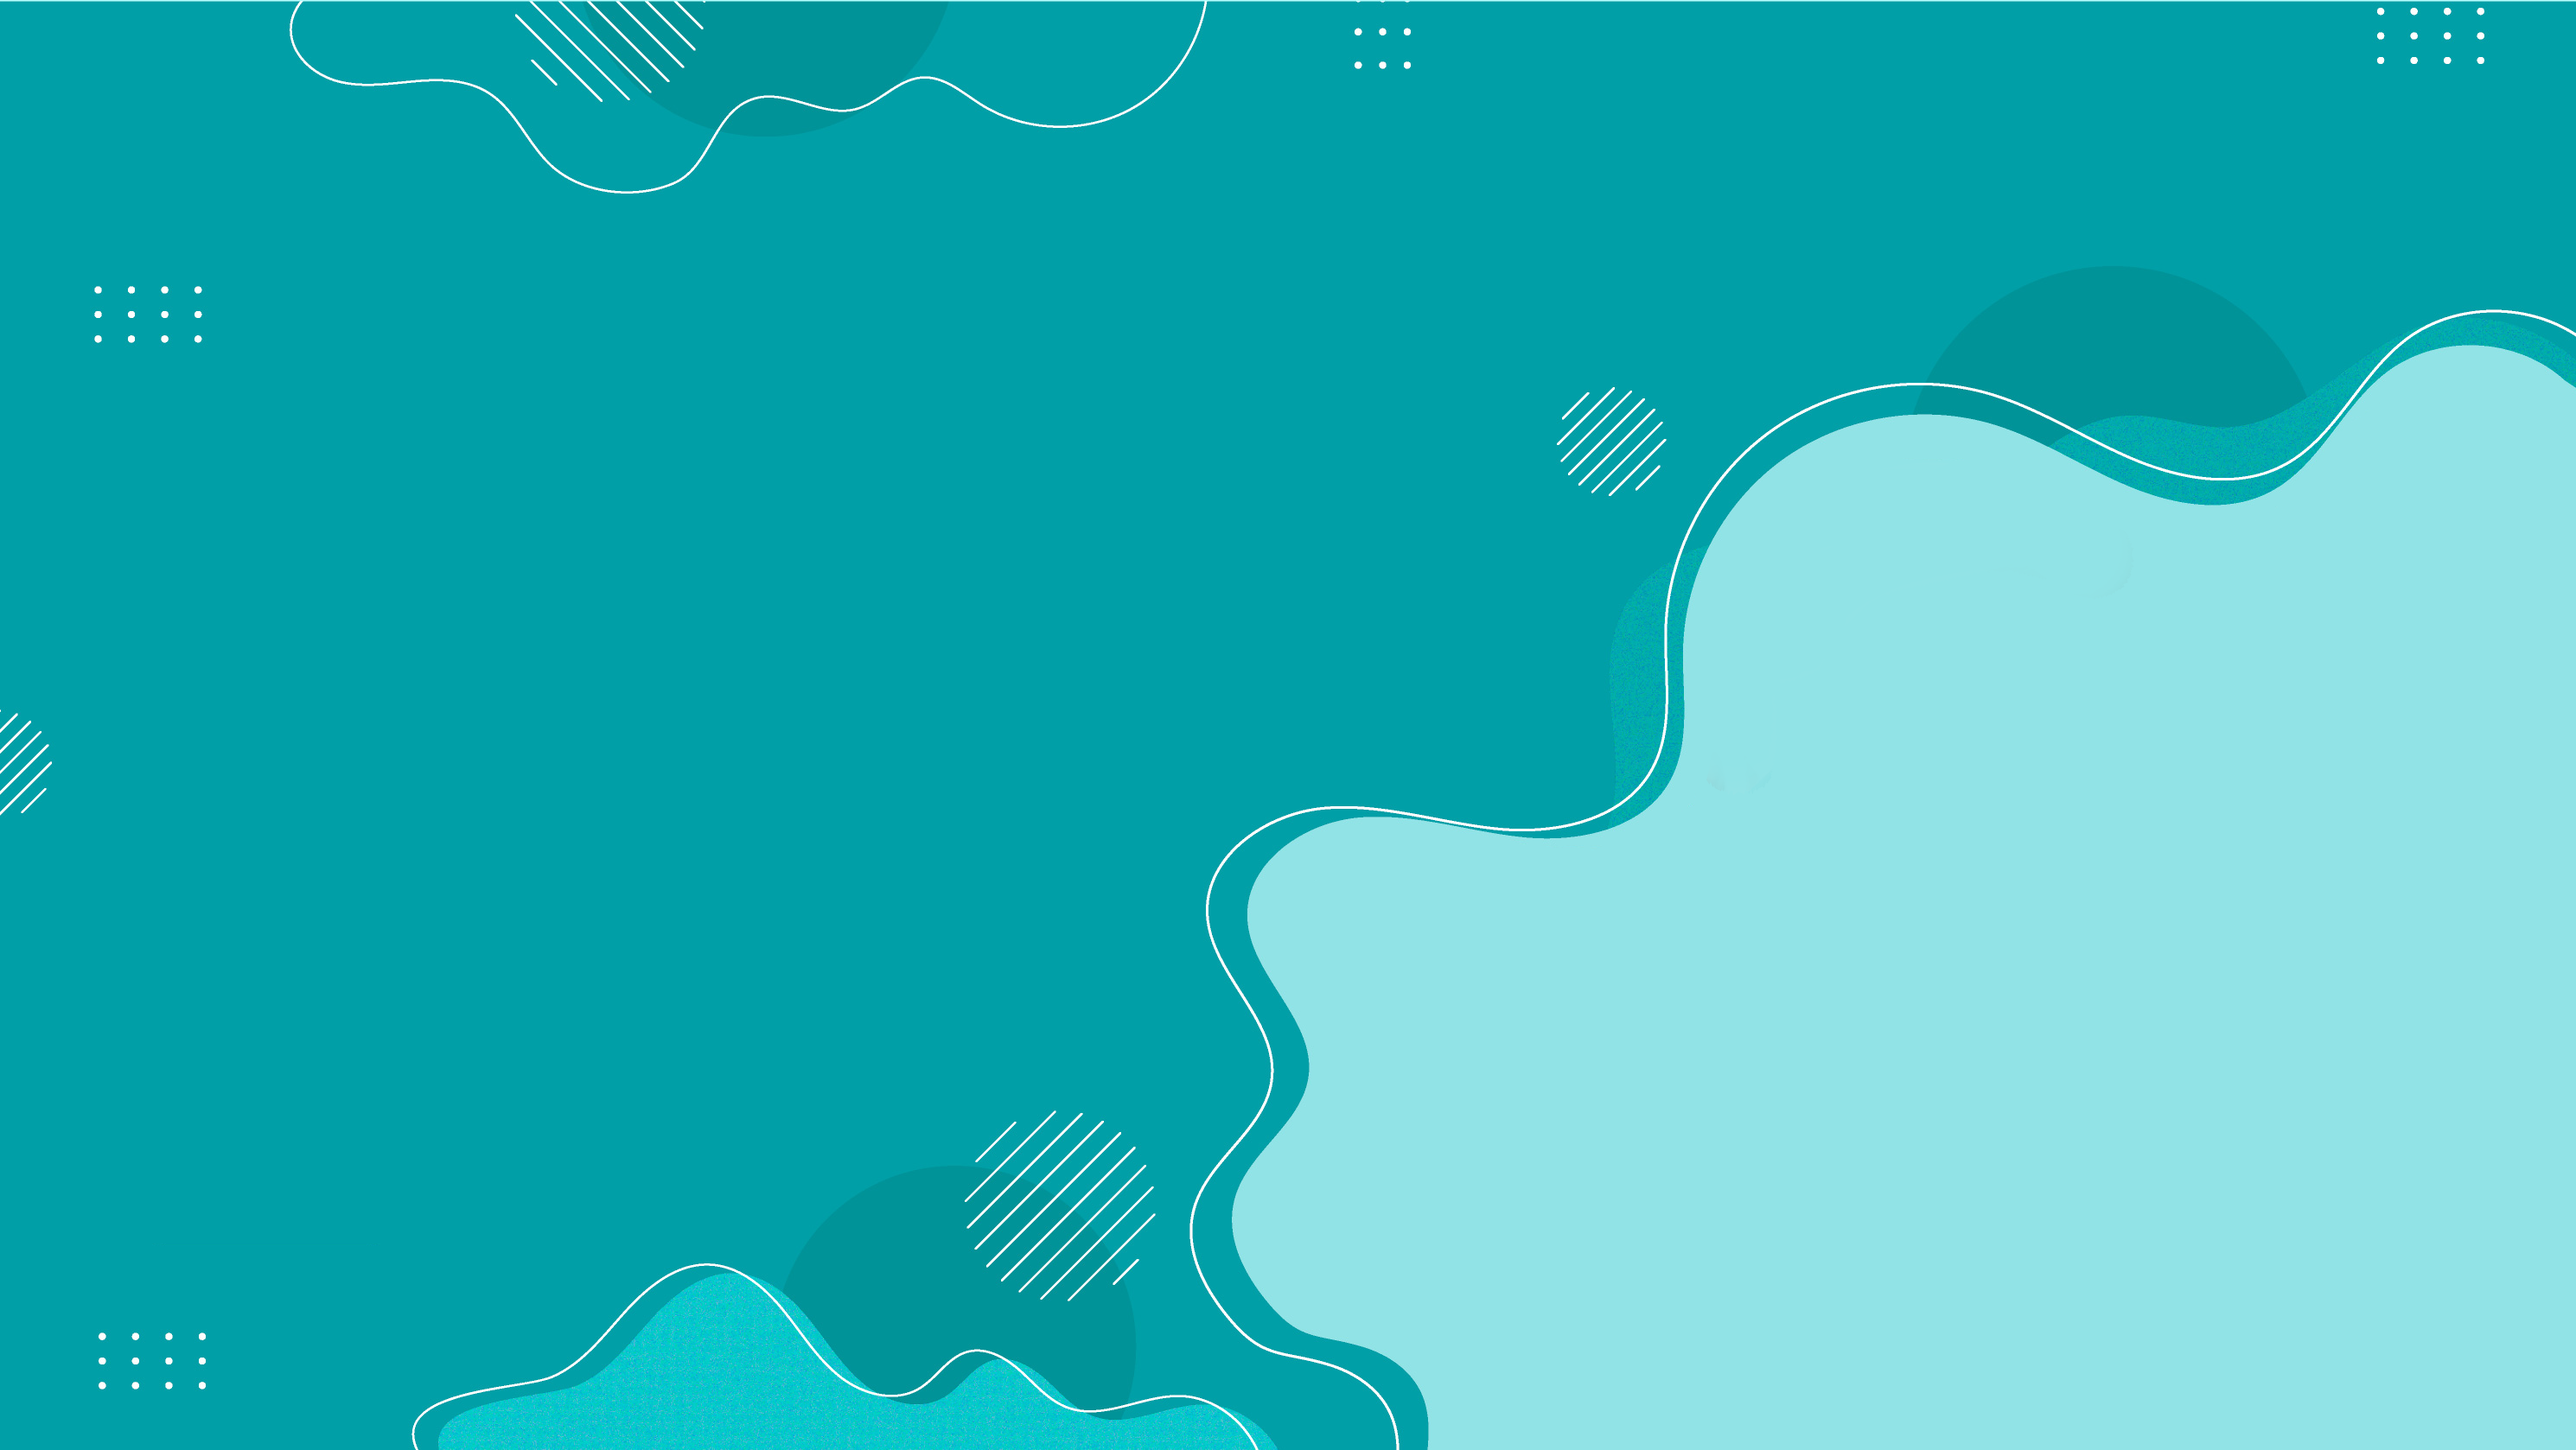
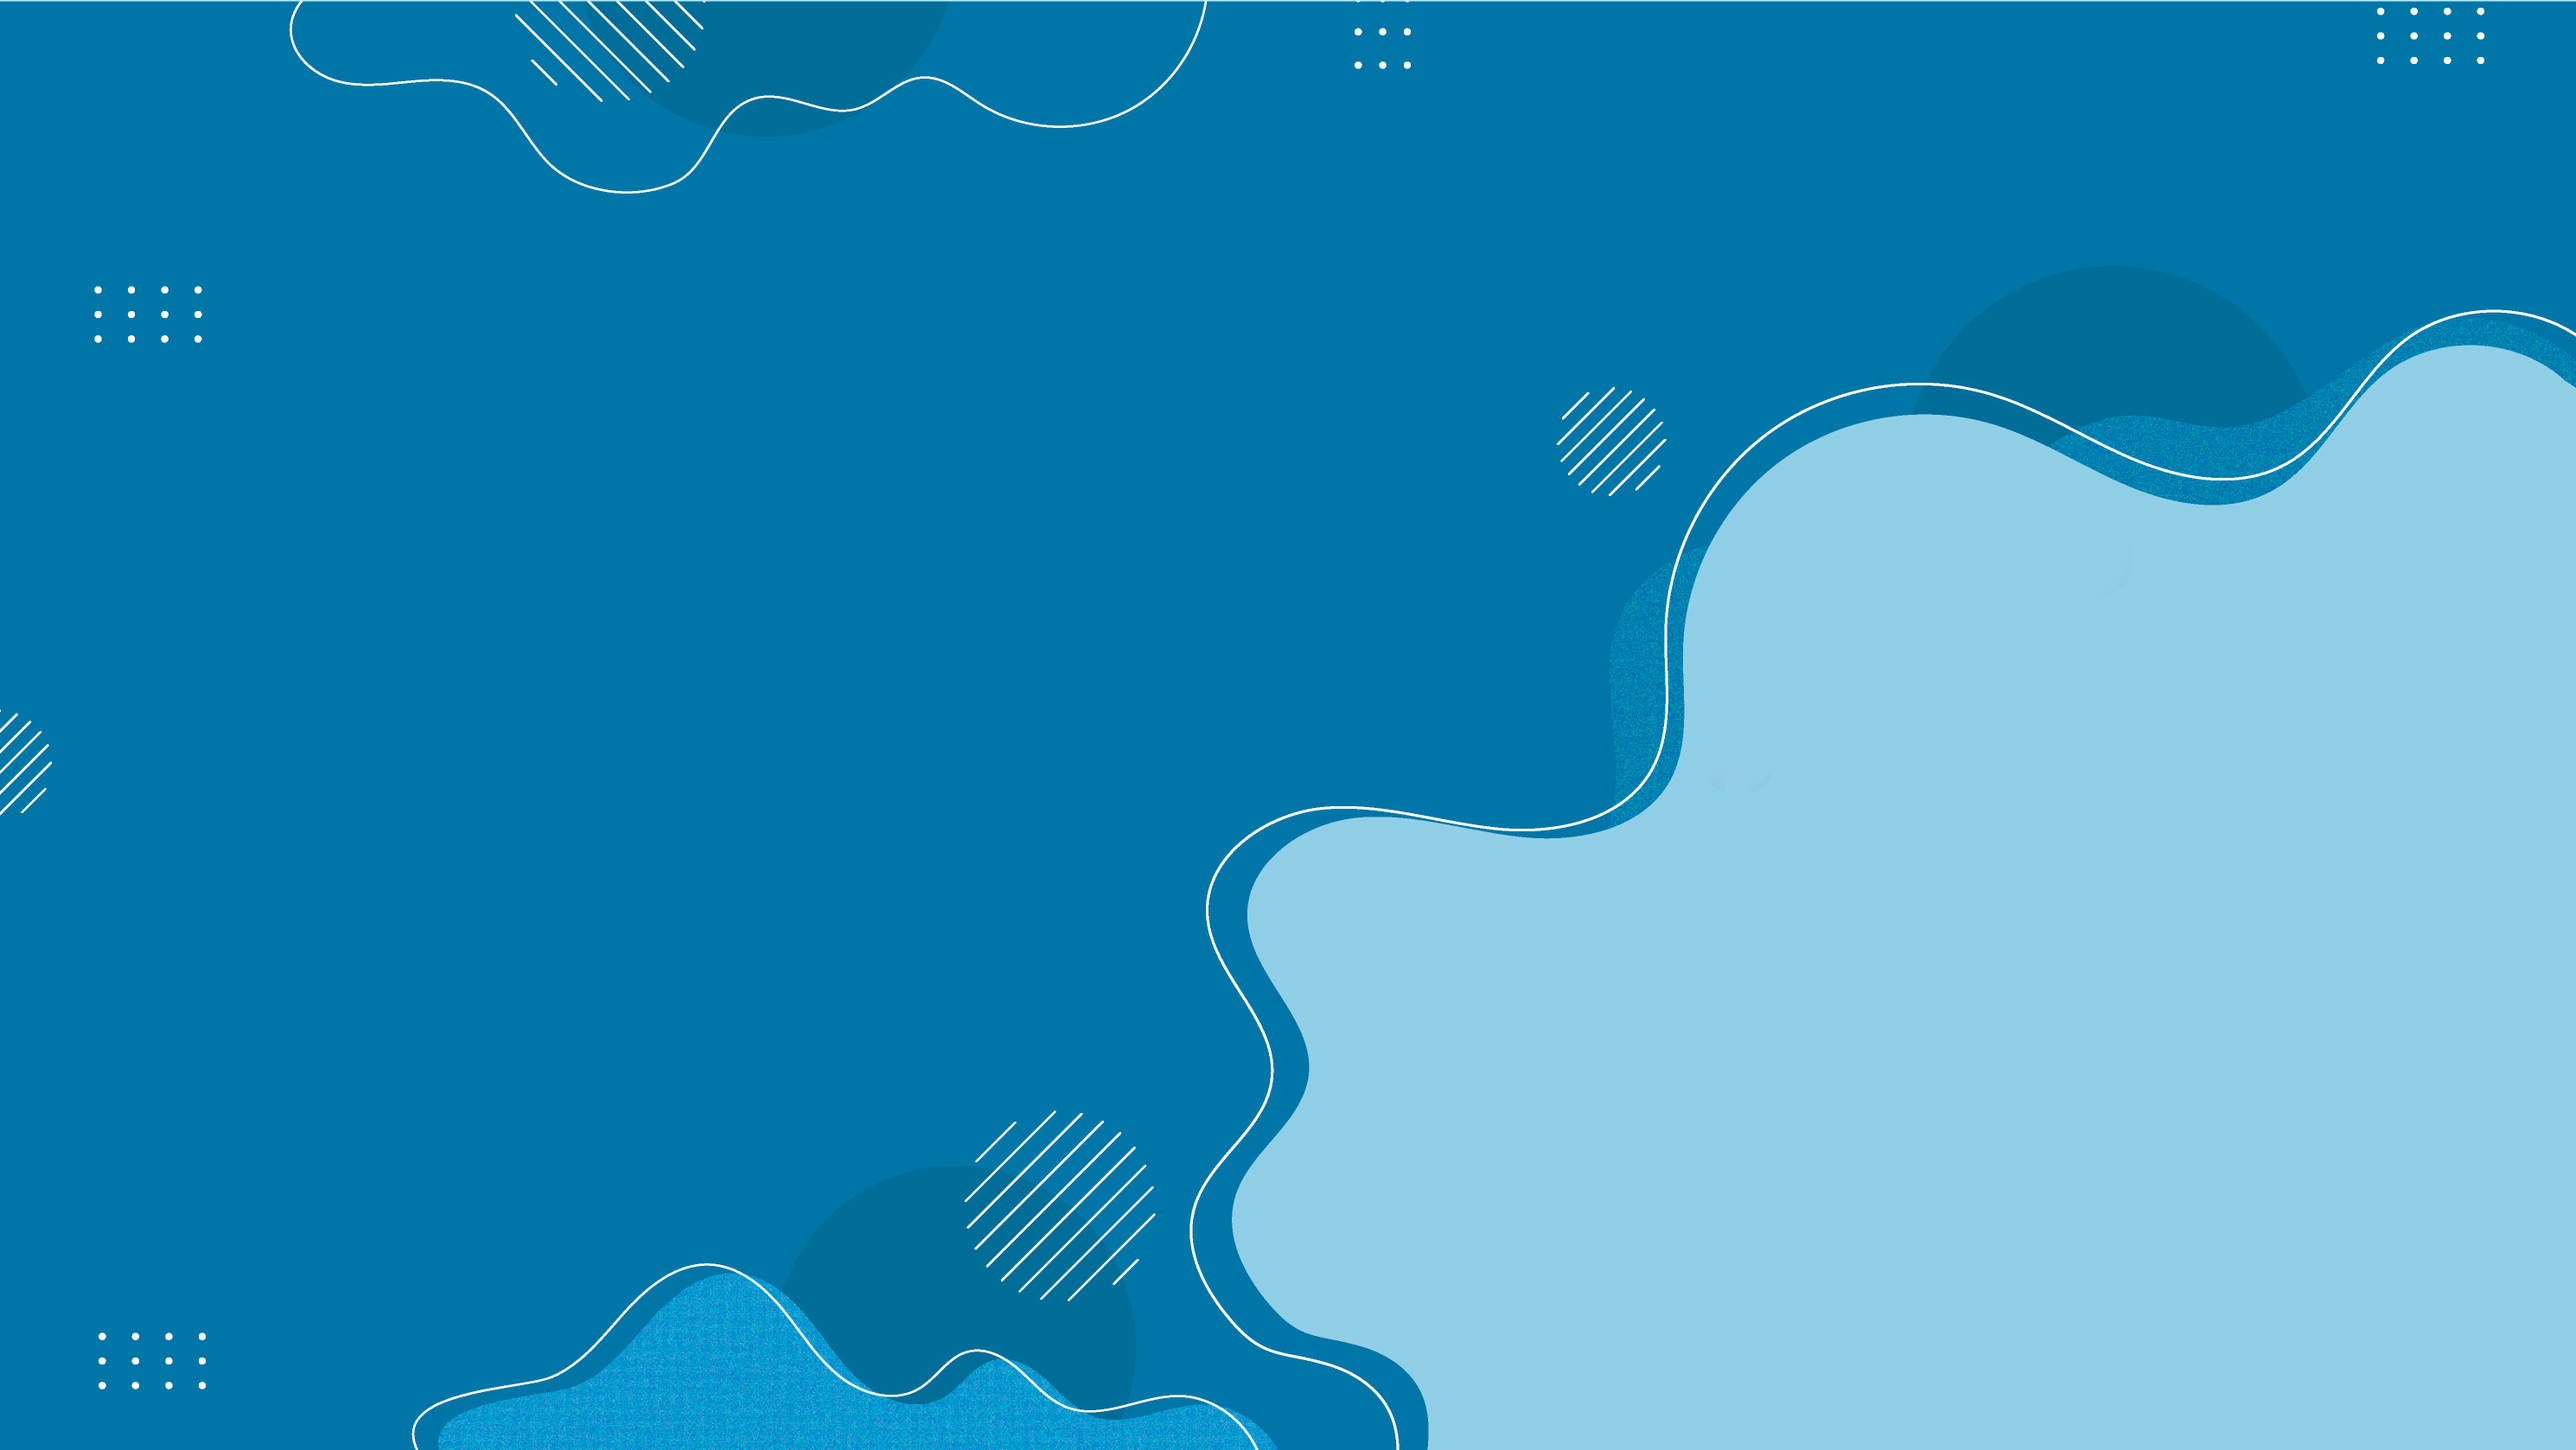
color.0

diff --git a/fisioplus-frontend/src/css/LoginPage.css b/fisioplus-frontend/src/css/LoginPage.css
@@ -35,7 +35,7 @@ html, body {
   position: absolute;
   top: 20px;
   left: 20px;
-  background-color: #00c6c6;
+  background-color: #0071a6;
   color: white;
   padding: 10px 16px;
   border-radius: 8px;
@@ -168,7 +168,7 @@ html, body {
 
 .login-fields input:focus {
   outline: none;
-  border-color: #00c6c6;
+  border-color: #0071a6;
 }
 
 /* ------------------------------
@@ -180,7 +180,7 @@ html, body {
   font-size: 16px;
   font-weight: bold;
   color: white;
-  background-color: #00c6c6;
+  background-color: #0071a6;
   border: none;
   border-radius: 6px;
   cursor: pointer;
@@ -188,7 +188,7 @@ html, body {
 }
 
 .primary-button:hover {
-  background-color: #00b0b0;
+  background-color: #045273;
 }
 
 /* ------------------------------
@@ -269,7 +269,7 @@ html, body {
 }
 
 .register-link a {
-  color: #00c6c6;
+  color: #0071a6;
   font-weight: bold;
   text-decoration: none;
 }

diff --git a/fisioplus-frontend/src/css/RegisterPage.css b/fisioplus-frontend/src/css/RegisterPage.css
@@ -83,12 +83,12 @@ html, body {
 }
 
 .form-section button[type="submit"] {
-  background-color: #00c6c6;
+  background-color: #0071a6;
   color: #fff;
 }
 
 .form-section button[type="submit"]:hover {
-  background-color: #00b0b0;
+  background-color: #045273;
 }
 
 .form-section button[type="button"] {
@@ -128,7 +128,7 @@ html, body {
 }
 
 .login-link a {
-  color: #00c6c6;
+  color: #0071a6;
   font-weight: bold;
   text-decoration: none;
   transition: color 0.3s ease;
@@ -149,7 +149,7 @@ html, body {
   position: absolute;
   top: 20px;
   left: 20px;
-  background-color: #00c6c6;
+  background-color: #0071a6;
   color: white;
   padding: 10px 16px;
   border-radius: 8px;
@@ -164,7 +164,7 @@ html, body {
 
 
 .back-home-button:hover {
-  background-color: #00b0b0;
+  background-color: #045273;
 }
 
 .home-icon {
